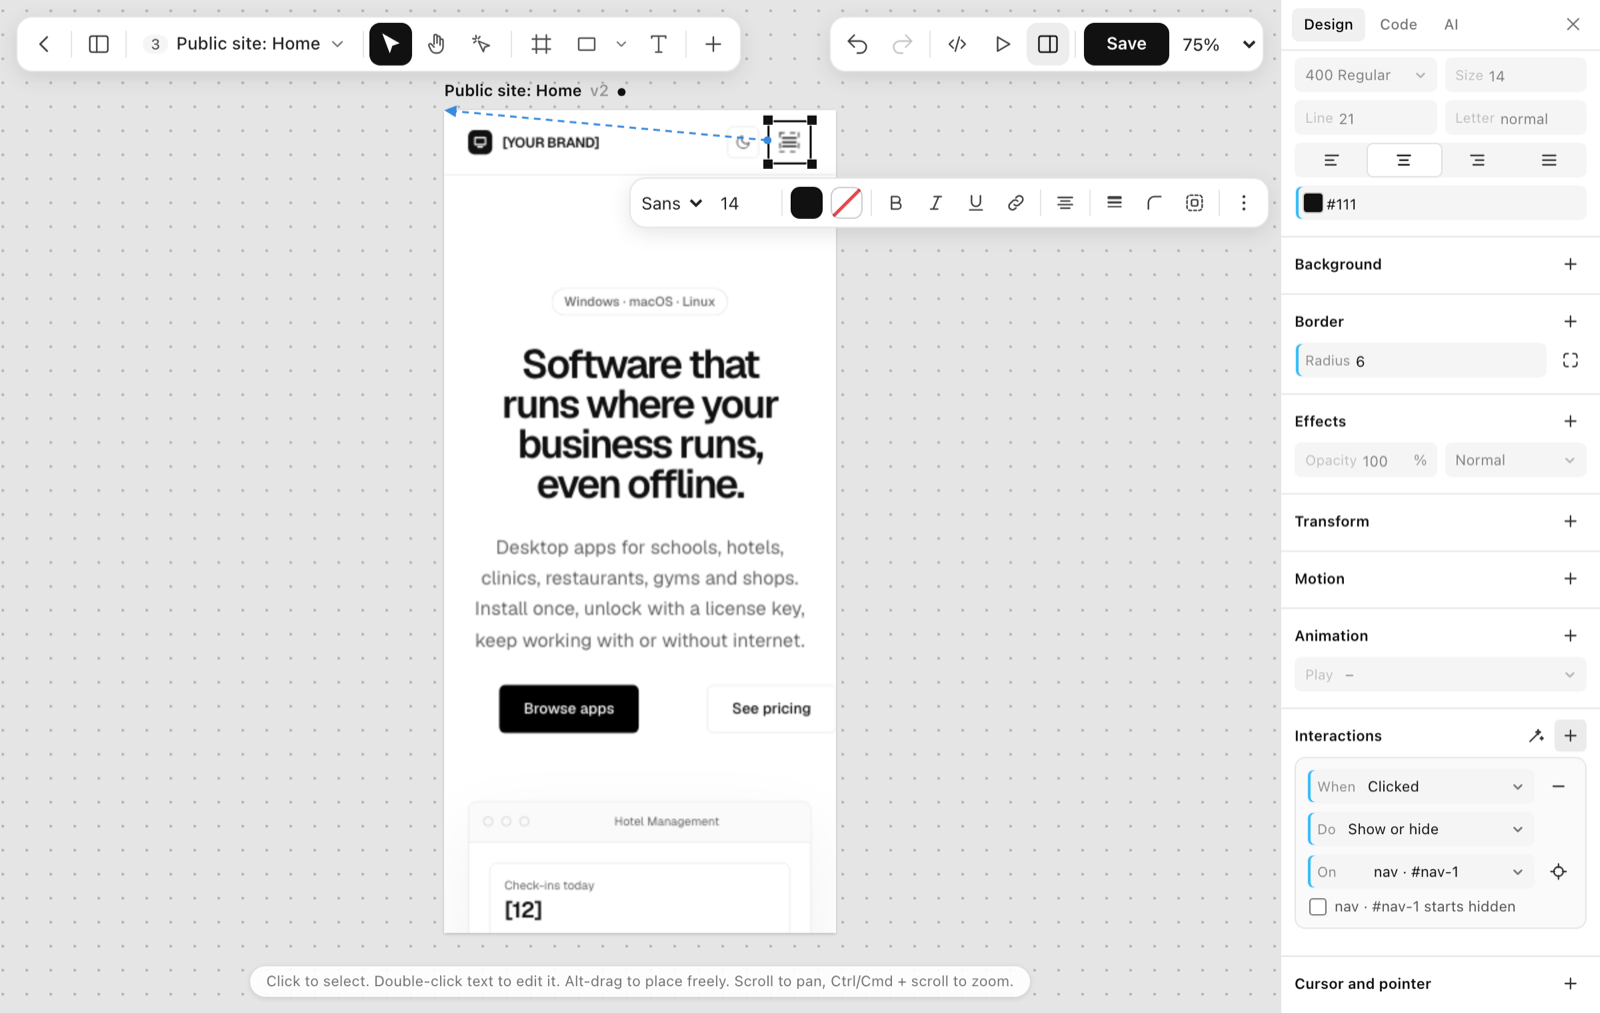
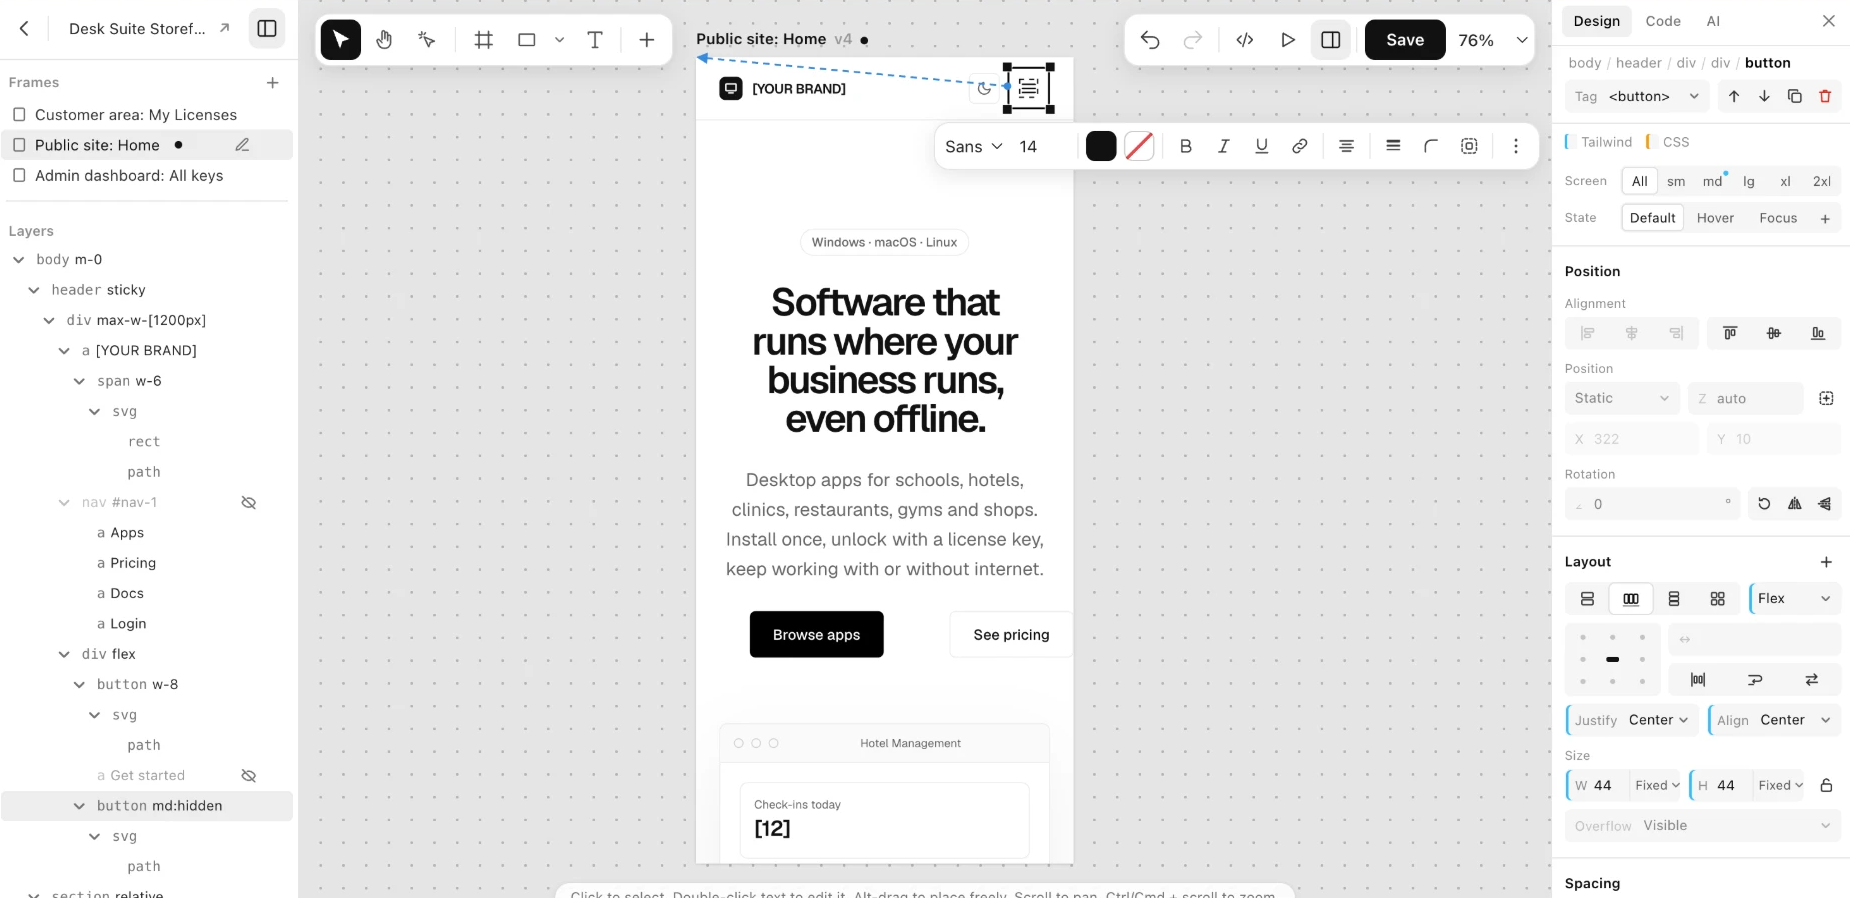
docs: the Interactions screenshot is the one from the real project (the menu button selected, with the arrow to what it acts on), browser header cropped, and its caption no longer says 'no JavaScript'

diff --git a/README.md b/README.md
@@ -61,8 +61,8 @@ The **[Windcraft wiki](https://github.com/Tolaj/windcraft/wiki)** has the guides
 <table>
   <tr>
     <td valign="top" width="50%">
-      <img src="docs/media/interactions.png" alt="The Interactions panel: when the menu button is clicked, show or hide the navigation" width="420">
-      <br><b>Interactions, no JavaScript.</b> Say what a button does: show, hide, change classes, scroll, go to another frame. One-click Tabs and Modal.
+      <img src="docs/media/interactions.png" alt="A mobile frame with the menu button selected and an arrow to the navigation it controls" width="420">
+      <br><b>Interactions.</b> Pick a button and say what it does: show or hide something, change classes, scroll, go to another frame. The arrow shows what it acts on.
     </td>
     <td valign="top" width="50%">
       <img src="docs/media/animations.png" alt="The animation library: a grid of presets with a live preview and settings" width="420">
